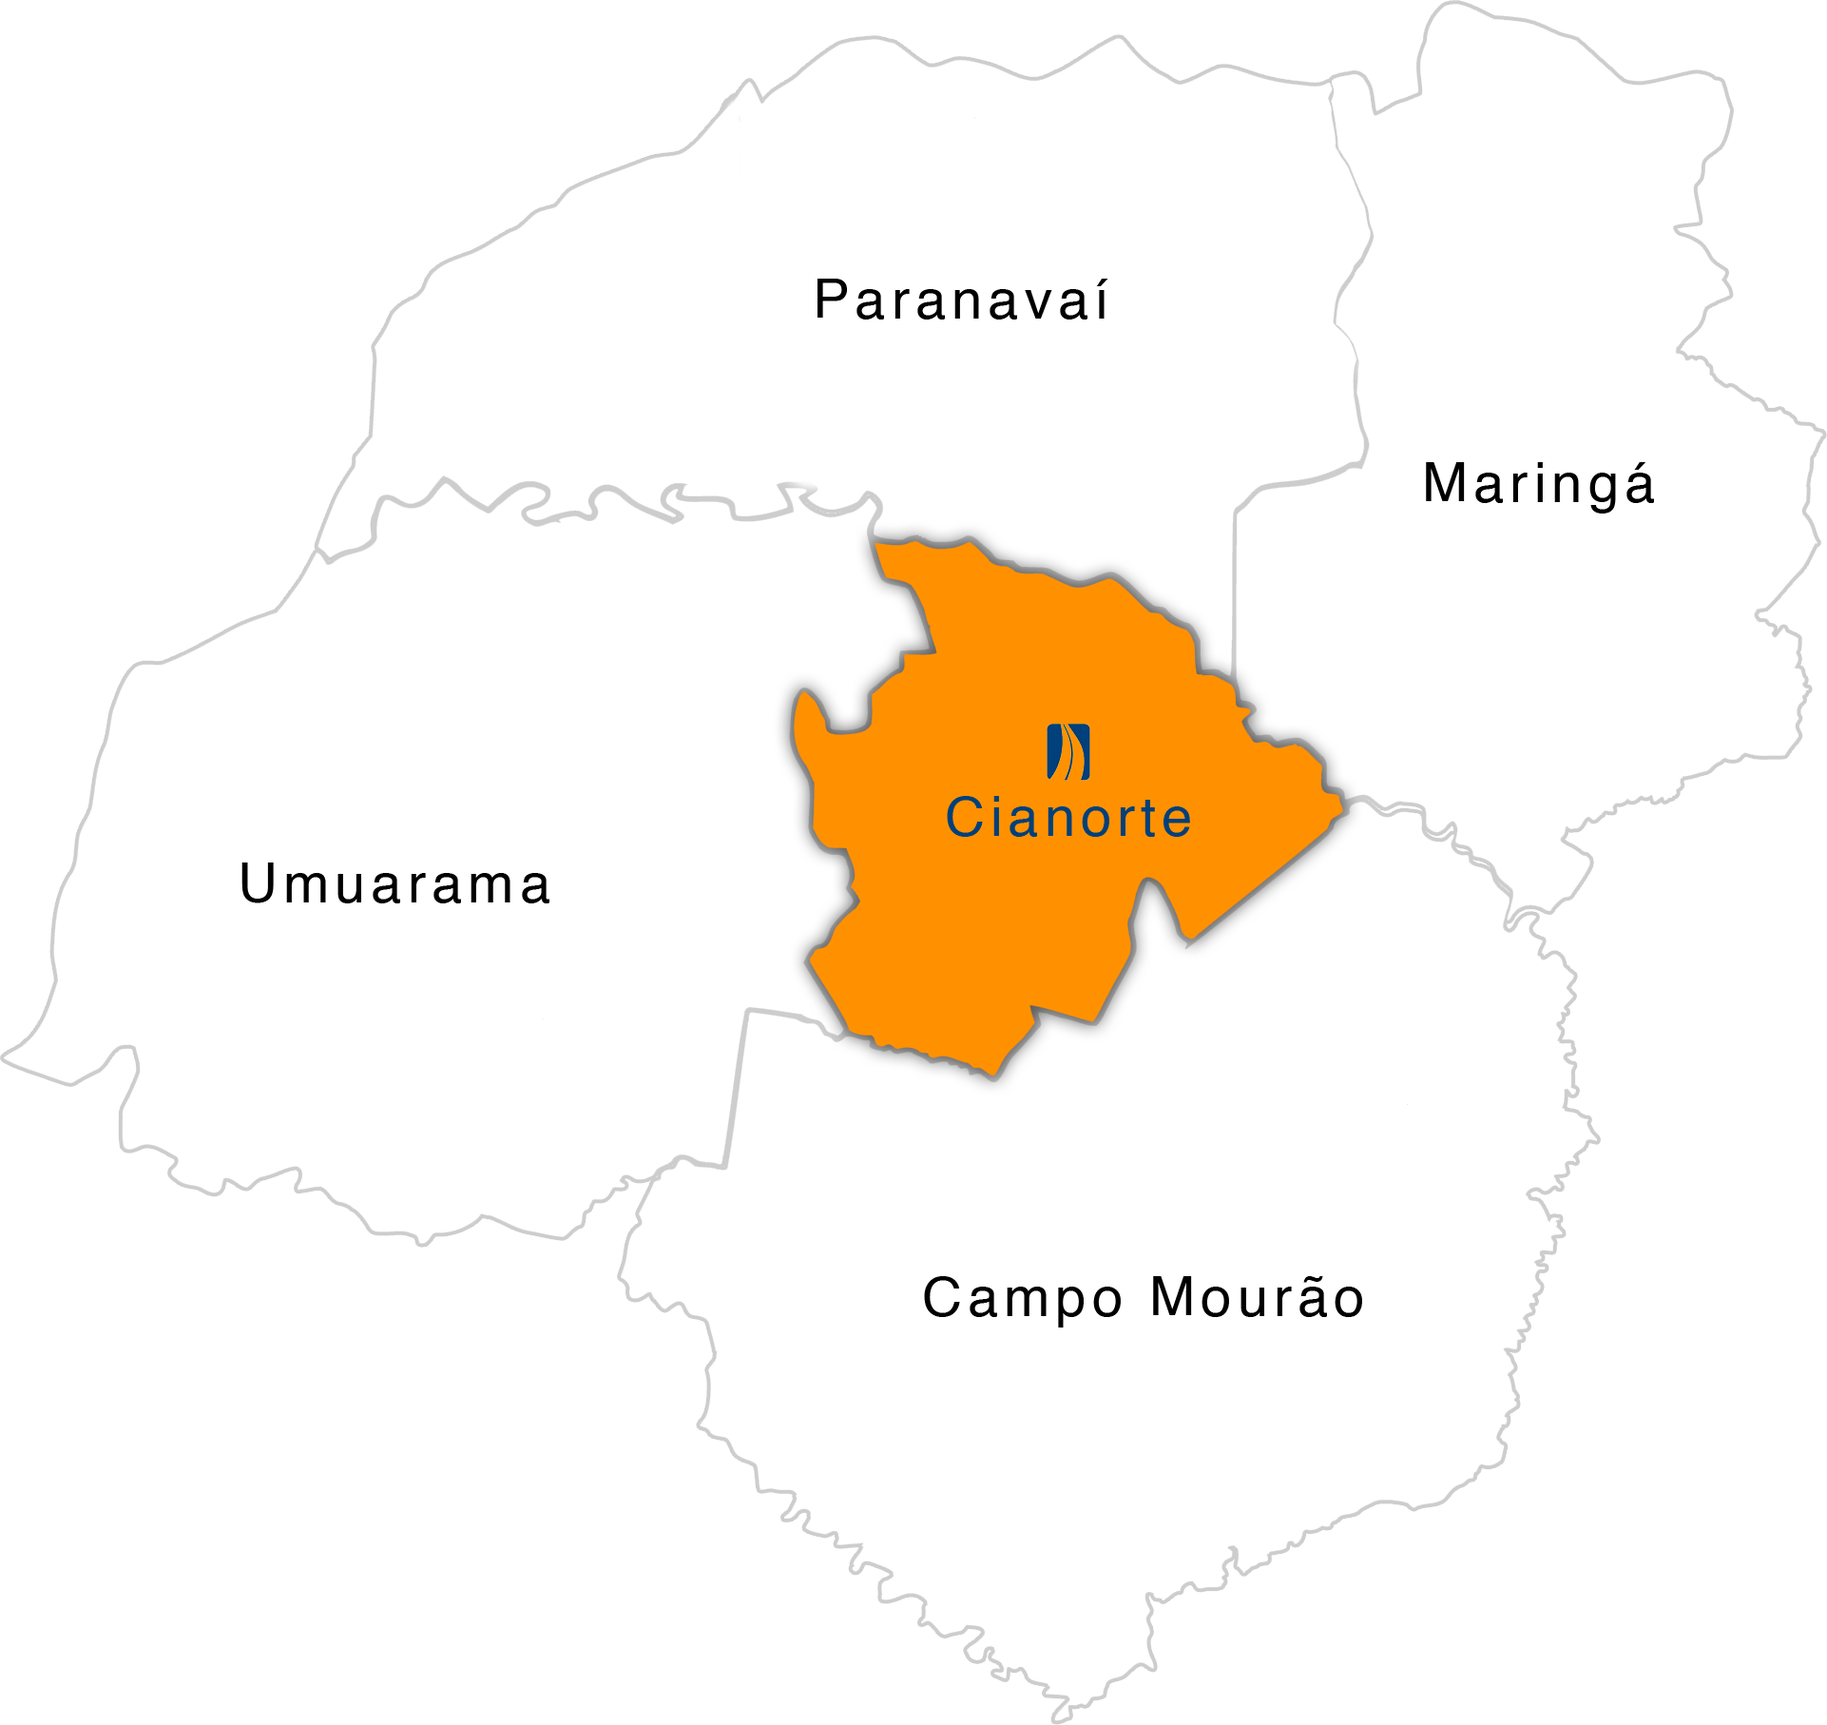
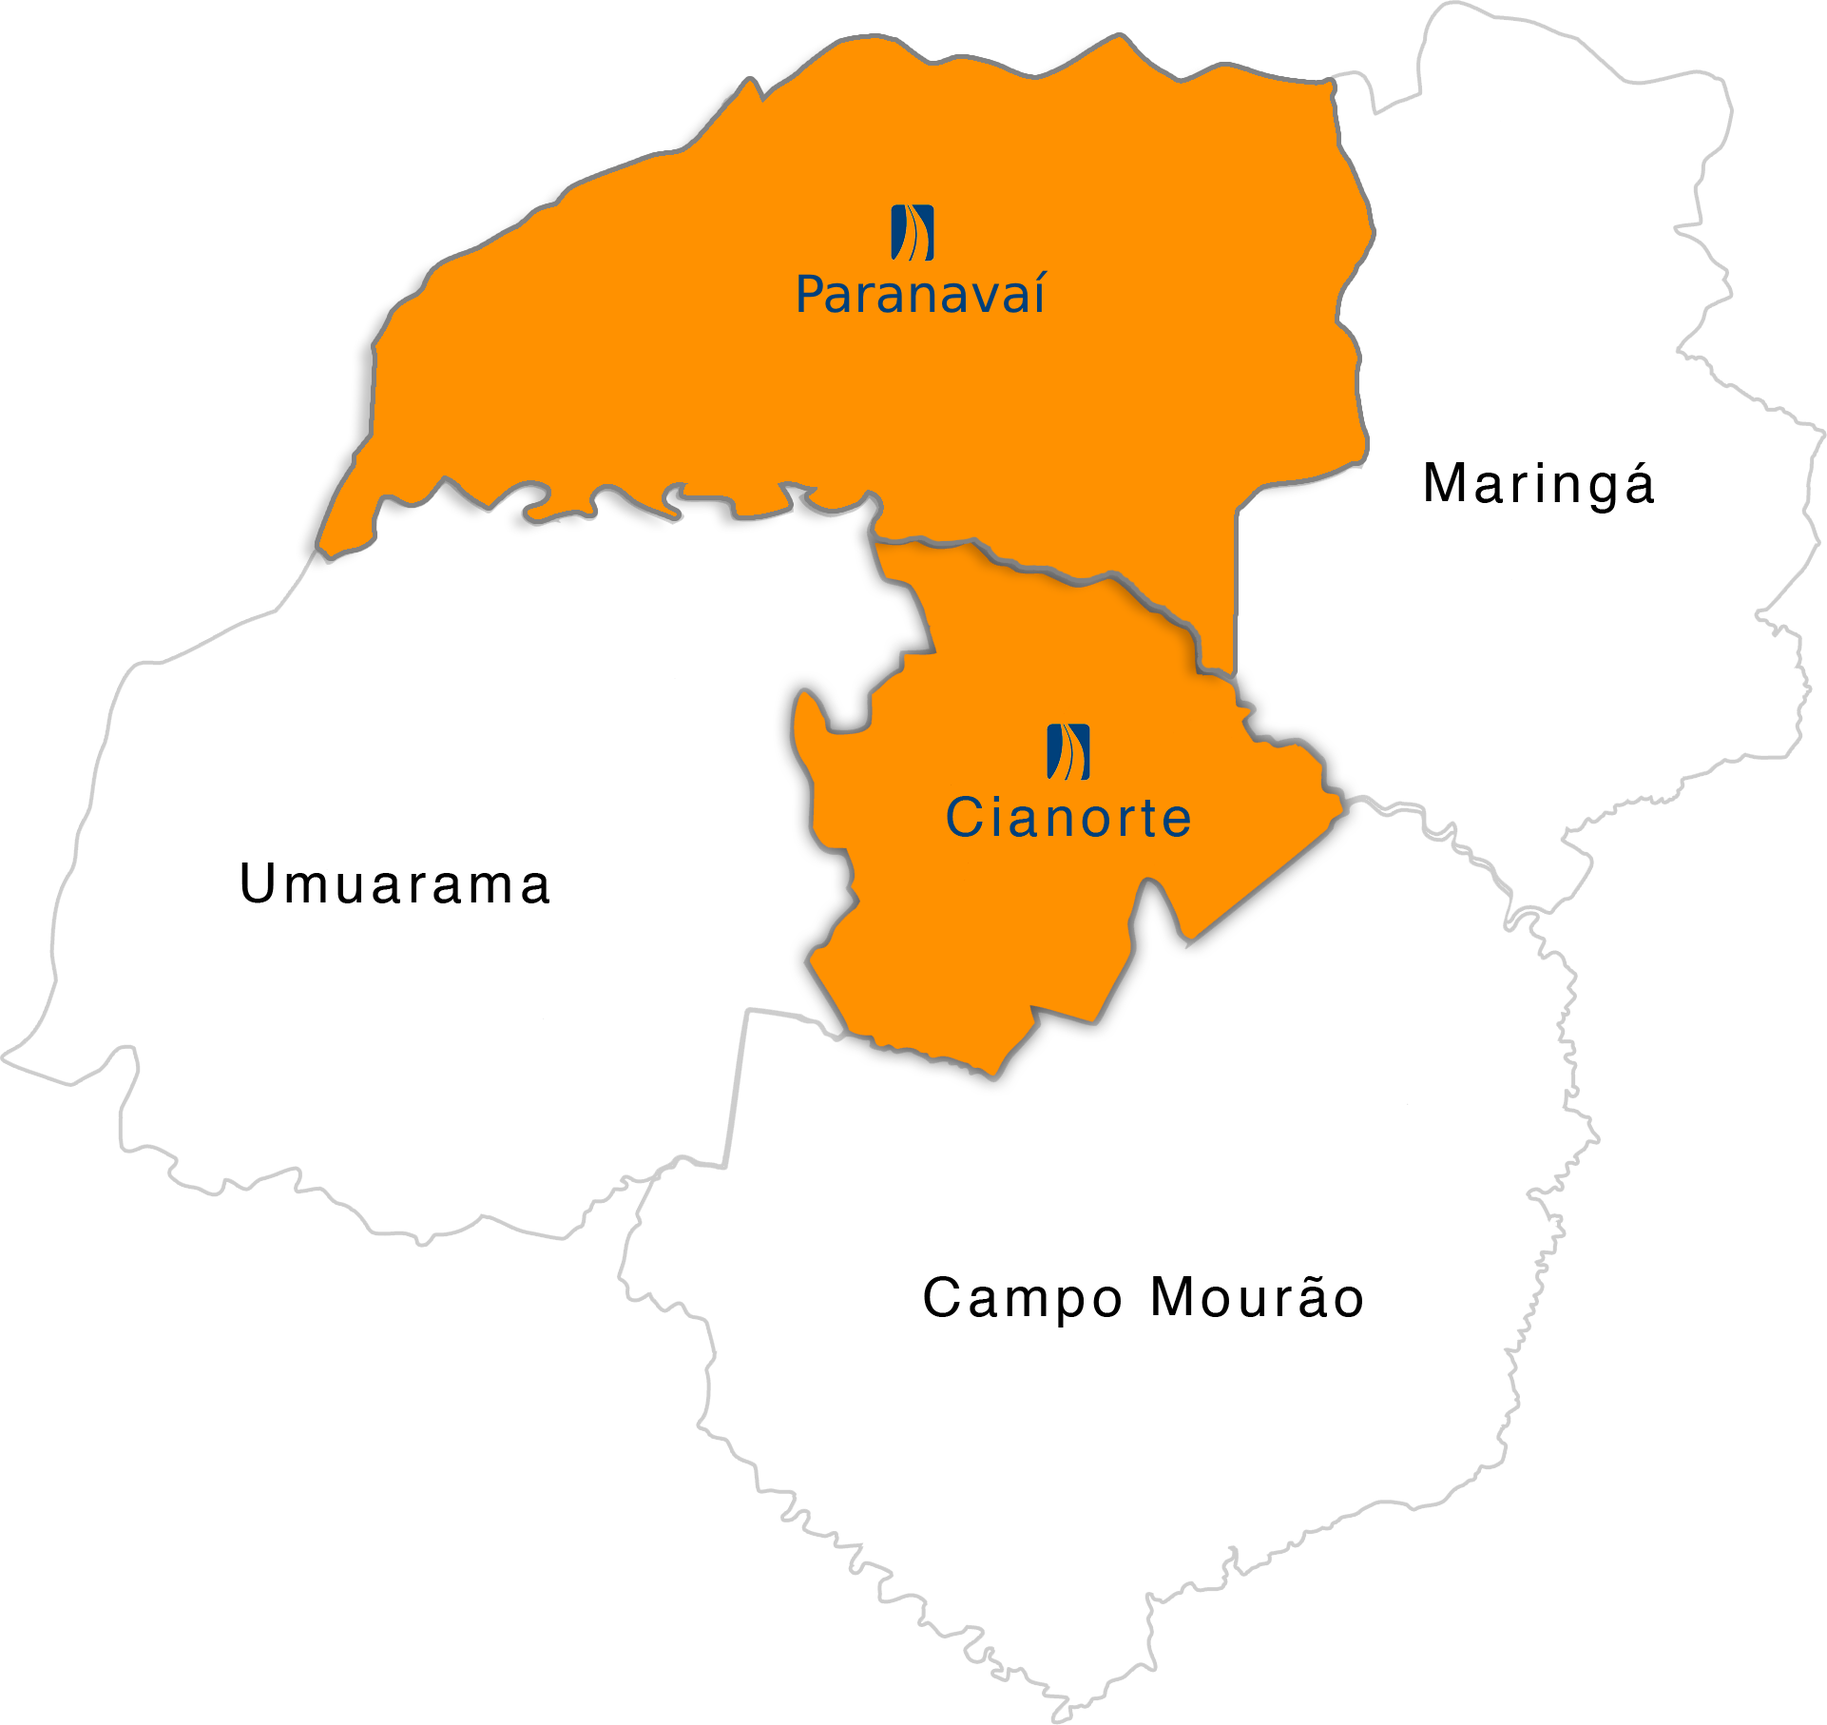
Adicionando loja de paranavai e nova categoria de carro FH

Changed region(s): [[0.1561, 0.0, 0.7492, 0.4013]]

diff --git a/src/pages/sobre.js b/src/pages/sobre.js
@@ -4,6 +4,7 @@ import Footer from '../components/footer/footer';
 import Header from '../components/header/header';
 import ImgEmpresa from '../images/sobre/empresa.png';
 import ImgCianorte from '../images/sobre/cianorte.png';
+import ImgParanavai from '../images/sobre/paranavai.png';
 import ImgMapa from '../images/sobre/mapa.png';
 import './sobre.scss';
 
@@ -63,18 +64,31 @@ const SobrePage = () => {
             <div className="flex">
               <div className="texto">
                 <h1>Cianorte</h1>
-                <p>Cianorte, atualmente conhecida como a CAPITAL DO VESTUÁRIO, é uma belíssima cidade situada na região noroeste do Paraná, sendo considerada umas das melhores do país no quesito qualidade de vida e baixo nível de desemprego.</p>
-                <p>Mas antes de falar de Cianorte e seus encantos, precisamos lembrar um pouco de sua História.</p>
-                <p>Planejada pela empresa Companhia de Melhoramentos do Norte do Paraná da qual herdou o nome e também o seu traçado urbanístico, o qual foi inspirado no projeto de um urbanista Inglês, Ebenezer Howad,  o qual chamava este tipo de planejamento urbano, de Cidade  Jardim.</p>
-                <p>Sim, desde o início a ideia era que progresso e natureza convivessem juntos e em harmonia, assim, em 26 de julho de 1953 surge a cidade, com os primeiros pioneiros, principalmente vindos dos estados de São Paulo e Minas Gerais, e que buscavam um lugar próspero com campo fértil para poder fincar suas raízes.</p>
+                <p>Cianorte, conhecida como a "Capital do Vestuário", é uma cidade no noroeste do Paraná, destacada pela alta qualidade de vida e baixo desemprego. </p>
+                <p>Fundada em 26 de julho de 1953, a cidade foi planejada pela Companhia de Melhoramentos do Norte do Paraná, seguindo o conceito de "Cidade Jardim" do urbanista inglês Ebenezer Howard. </p>
+                <p>Inicialmente, a economia de Cianorte era baseada no café, mas enfrentou dificuldades na década de 1970 devido a geadas e mudanças econômicas. Superando esses desafios, Cianorte se reinventou como um importante polo de confecção, influenciado por imigrantes libaneses, e hoje abriga a maior feira de vestuário do sul do país, a Expovest. </p>
+                <p>Atualmente, a economia é diversificada, incluindo indústrias alimentícias, metal-mecânicas, software, móveis, bebidas, pecuária e agricultura, com destaque para a produção de cana-de-açúcar.</p>
               </div>
               <div className="imagem">
                 <img src={ ImgCianorte } alt="Cianorte" />
               </div>
             </div>
-            <p>Chegando aqui primeiramente tiveram o Café como cultura principal, onde a cidade se desenvolveu de maneira bastante promissora, entretanto no fim da década de setenta, com as grandes geadas que vinham trazendo prejuízos para a economia do café, juntamente com mudanças nas políticas econômicas nacionais, Cianorte juntamente com as outras cidades da região, passou por grandes dificuldades, enfrentando o desemprego e o êxodo rural.</p>
-            <p>Surgiu o primeiro grande desafio, transformar e buscar novos meios de prosperidade e assim Cianorte descobriu uma grande vocação, fruto também dos esforços dos imigrantes libaneses que participaram efetivamente do processo de industrialização, buscaram e não mediram esforços para que os produtos ligados a confecção fossem de qualidade e excelência. Em pouco tempo, Cianorte se destacou no cenário nacional como o maior polo atacadista da confecção e responde ainda pela realização da maior feira do vestuário do Sul do País, a Expovest. A cidade passou assim, a ser conhecida como a "Capital do Vestuário".</p>
-            <p>Atualmente o município de Cianorte conta com a diversificação na indústria, tendo suas bases na Confecção, a qual exporta moda para vários lugares do mundo, assim também como Indústrias Alimentícias, Metal Mecânica, Software, Moveleira, Bebidas, Pecuária e a Agricultura, com grandes áreas de cana de açúcar, as quais abastecem as usinas de Álcool e Açucar de nossa região.</p>
+          </section>
+
+          <section className="cianorte py-2">
+            <div className="flex">
+              <div className="imagem">
+                <img src={ ImgParanavai } alt="Cianorte" />
+              </div>
+              <div className="texto">
+                <h1>Paranavaí</h1>
+                <p>Paranavaí é uma cidade no noroeste do Paraná, Brasil, fundada em 14 de dezembro de 1952. Sua história está ligada à colonização incentivada pelo governo estadual e empresas, atraindo migrantes, especialmente de São Paulo e Minas Gerais.</p>
+                <p>A economia é diversificada, com foco na agricultura, destacando-se na produção de mandioca, laranja, soja, milho e cana-de-açúcar, além de um significativo setor agroindustrial.</p>
+                <p>O comércio e os serviços também são importantes, com um crescente desenvolvimento industrial.</p>
+                <p>Culturalmente rica, Paranavaí sedia eventos como o Festival de Música e Poesia (Femup) e a ExpoParanavaí.</p>
+                <p>A cidade possui uma boa infraestrutura educacional, incluindo a Universidade Estadual do Paraná (Unespar). Paranavaí equilibra tradição e modernidade, sendo um excelente lugar para viver, trabalhar e investir.</p>
+              </div>
+            </div>
           </section>
 
           <section className="localizacao-estrategia py-2">
@@ -82,6 +96,7 @@ const SobrePage = () => {
               <div className="texto">
                 <h1>Localização Estratégica</h1>
                 <p>Cianorte encontra-se localizada no Noroeste Paranaense. A Cidade está estrategicamente no centro, a uma distância média de 80 a 90 Km das vizinhas, Maringá, Campo Mourão, Umuarama e Paranavaí.</p>
+                <p>Paranavaí está localizada estrategicamente próxima de importantes rodovias, que facilitam o acesso e aproximam as divisas com São Paulo e Mato Grosso do Sul. A cidade faz parte da Mesorregião Noroeste Paranaense, e fica a 70 km de Maringá PR.</p>
               </div>
               <div className="imagem">
                 <img src={ ImgMapa } alt="Mapa" />

diff --git a/src/pages/contato.js b/src/pages/contato.js
@@ -22,20 +22,10 @@ const ContatoPage = () => {
             <div className="textos">
               <p>Estamos sempre preparados para ajudar você no que for preciso. Dúvidas, solicitação ou sugestões? Entre em contato com a gente!</p>
 
-              <h5>Contatos</h5>
-              <div className="iconetexto">
-                <i className="icon telefone"></i>
-                <a target="_blank" href="tel:+5544991038369">(44) 99103 8369</a>
-              </div>
-              <div className="iconetexto">
-                <i className="icon whats"></i>
-                <a target="_blank" href="https://wa.me/554430394721">(44) 3039 4721</a>
-              </div>
-
               <h5>Redes sociais</h5>
               <div className="iconetexto">
                 <i className="icon instagram"></i>
-                <span>em breve</span>
+                <a target="_blank" href="https://www.instagram.com/camdallocadora/">/camdallocadora</a>
               </div>
               <div className="iconetexto">
                 <i className="icon facebook"></i>
@@ -46,19 +36,49 @@ const ContatoPage = () => {
                 <span>em breve</span>
               </div>
 
-              <h5>Endereço</h5>
+              <h5>Email</h5>
               <div className="iconetexto">
-                <i className="icon endereco"></i>
-                <span>Avenida Goias, 1178, Zona 5 - Cianorte-PR - CEP: 87209-006</span>
+                <i className="icon mail"></i>
+                <a href="mailto:contato@camdal.com.br">contato@camdal.com.br</a>
               </div>
             </div>
 
-            <div className="mapa">
-              <iframe
-                src="https://www.google.com/maps/embed?pb=!1m18!1m12!1m3!1d3654.4430889111254!2d-52.603233285020444!3d-23.66010748463393!2m3!1f0!2f0!3f0!3m2!1i1024!2i768!4f13.1!3m3!1m2!1s0x94ed5a140181fe4b%3A0xc258aaccbb3195a0!2sAv.%20Goi%C3%A1s%2C%201178%20-%20Zona%205%20(Armazens)%2C%20Cianorte%20-%20PR%2C%2087200-000!5e0!3m2!1spt-BR!2sbr!4v1636218006987!5m2!1spt-BR!2sbr"
-                allowFullScreen
-                loading="lazy">
-              </iframe>
+            <div className="cards">
+              <div className="card">
+                <h5>Cianorte</h5>
+                <div className="iconetexto">
+                  <i className="icon endereco"></i>
+                  <a target="_blank" href="https://maps.app.goo.gl/7dZi6ar1NCGeib416">Avenida Goias, 1178, Zona 5 - CEP: 87209-006</a>
+                </div>
+                <div className='flex mt-1'>
+                  <div className="iconetexto">
+                    <i className="icon telefone"></i>
+                    <a target="_blank" href="tel:+5544991038369">(44) 99103 8369</a>
+                  </div>
+                  <div className="iconetexto">
+                    <i className="icon whats"></i>
+                    <a target="_blank" href="https://wa.me/554430394721">(44) 3039 4721</a>
+                  </div>
+                </div>
+              </div>
+
+              <div className="card mt-2">
+                <h5>Paranavaí</h5>
+                <div className="iconetexto">
+                  <i className="icon endereco"></i>
+                  <a target="_blank" href="https://maps.app.goo.gl/ocCmXdzJqoidwxzp7">Avenida Goias, 1178, Zona 5 - CEP: 87209-006</a>
+                </div>
+                <div className='flex mt-1'>
+                  <div className="iconetexto">
+                    <i className="icon telefone"></i>
+                    <a target="_blank" href="tel:+5544999215276">(44) 99921 5276</a>
+                  </div>
+                  <div className="iconetexto">
+                    <i className="icon whats"></i>
+                    <a target="_blank" href="https://wa.me/554430394721">(44) 3039 4721</a>
+                  </div>
+                </div>
+              </div>
             </div>
           </div>
         </div>

diff --git a/src/components/carros/carros.jsx b/src/components/carros/carros.jsx
@@ -19,6 +19,8 @@ import ImgVoyage1 from '../../images/nossos-carros/voyage1.jpg';
 import ImgVoyage2 from '../../images/nossos-carros/voyage2.jpg';
 import ImgYaris1 from '../../images/nossos-carros/yaris1.png';
 import ImgYaris2 from '../../images/nossos-carros/yaris2.png';
+import ImgYarisHatch1 from '../../images/nossos-carros/yarisHatch1.png';
+import ImgYarisHatch2 from '../../images/nossos-carros/yarisHatch2.png';
 import './carros.scss';
 
 class Carros extends Component {
@@ -107,6 +109,34 @@ class Carros extends Component {
           '05 Ocupantes',
           'Motor 1.5',
           'Cambio 6 Marchas - Mecânico',
+          'Computador de Bordo',
+          'Banco de Couro ou Tecido'
+        ]
+      },
+      {
+        grupo: 'FH',
+        grupoDescricao: 'Intermediário Hatch Automático',
+        link: 'https://wa.link/phua81',
+        fotos: [
+          ImgYarisHatch1,
+          ImgYarisHatch2,
+        ],
+        caracteristicas: [
+          '04 portas',
+          'Freios ABS ',
+          'Porta Malas -  310 Litros ',
+          'Air Bag Duplo',
+          'Vidros Elétricos',
+          'Travas Elétricas',
+          'Sistema de Som',
+          'Câmera e Sensor de Ré',
+          'Iluminação DRL',
+          'Direção Hidraulica',
+          'Volante com Regulagem de Altura',
+          'Ar Condicionado',
+          '05 Ocupantes',
+          'Motor 1.3 e 1.5',
+          'Cambio Automático',
           'Computador de Bordo',
           'Banco de Couro ou Tecido'
         ]

diff --git a/src/components/footer/footer.jsx b/src/components/footer/footer.jsx
@@ -37,7 +37,7 @@ class Footer extends Component {
               <a className="link facebook" href="https://www.facebook.com/camdallocadora" target="_blank" rel="noreferrer"></a>
             </li>
             <li>
-              <a className="link instagram" href="#" title="Em breve" target="_blank" rel="noreferrer"></a>
+              <a className="link instagram" href="https://www.instagram.com/camdallocadora" target="_blank" rel="noreferrer"></a>
             </li>
             <li>
               <a className="link linkedin" href="#" title="Em breve" target="_blank" rel="noreferrer"></a>
@@ -45,6 +45,7 @@ class Footer extends Component {
           </ul>
 
           <address className="address color-text-white mt-2">Avenida Goias, 1178, Zona 5 | 87209-006 | Cianorte-PR</address>
+          <address className="address color-text-white mt-1 mb-1">Avenida Distrito Federal, 1580, Jardim Progresso | 87701-310 | Paranaví-PR</address>
           <small className="copy">
             <span className="text">©2021 - Todos os direitos reservados à Camdal - Aluguel de carros</span>
             <span className="pipe">|</span>

diff --git a/src/components/header/header.jsx b/src/components/header/header.jsx
@@ -24,7 +24,7 @@ class Header extends Component {
     return (
       <>
         <title>
-          { this.props.title ? this.props.title + ' | ' : '' }Camdal
+          { this.props.title ? this.props.title + ' | ' : '' }Camdal Locadora de Veículos
         </title>
 
         <header className="header">
@@ -55,10 +55,10 @@ class Header extends Component {
 
               <div className={ `socialmedia ${this.state.menuAtivo ? '-active' : ''}` }>
                 <ul className="list">
-                  <li className="listitem">
+                  {/* <li className="listitem">
                     <i className="icon phone"></i>
                     <a className="text" href="tel:+5544991038369">(44) 99103 8369</a>
-                  </li>
+                  </li> */}
                   <li className="listitem">
                     <i className="icon whats"></i>
                     <a className="text" href="https://wa.me/554430394721">(44) 3039 4721</a>

diff --git a/src/pages/contato.scss b/src/pages/contato.scss
@@ -34,6 +34,9 @@
         &.telefone {
           background-image: url(../images/contato/phone.png);
         }
+        &.mail {
+          background-image: url(../images/contato/mail.png);
+        }
         &.whats {
           background-image: url(../images/contato/whats.png);
         }
@@ -52,13 +55,10 @@
       }
     }
 
-    .mapa {
-
-      iframe {
-        border: 2px solid var(--white);
-        width: 100%;
-        height: 300px;
-      }
+    .card {
+      background-color: #fff;
+      padding: 1.275em;
+      border-radius: 5px;
     }
   }
 }

diff --git a/gatsby-config.js b/gatsby-config.js
@@ -1,7 +1,7 @@
 module.exports = {
   siteMetadata: {
     siteUrl: 'https://camdal.com.br/',
-    title: 'Camdal',
+    title: 'Camdal Locadora de Veiculos',
   },
   plugins: [
     'gatsby-plugin-sass',

diff --git a/src/styles/_reset.scss b/src/styles/_reset.scss
@@ -50,11 +50,11 @@ a {
 p {
   padding-bottom: 1em;
   line-height: 1.5em;
-  text-align: justify;
+  text-align: left;
 }
 
 .paragraph p {
-  text-align: justify;
+  text-align: left;
 }
 
 a,
